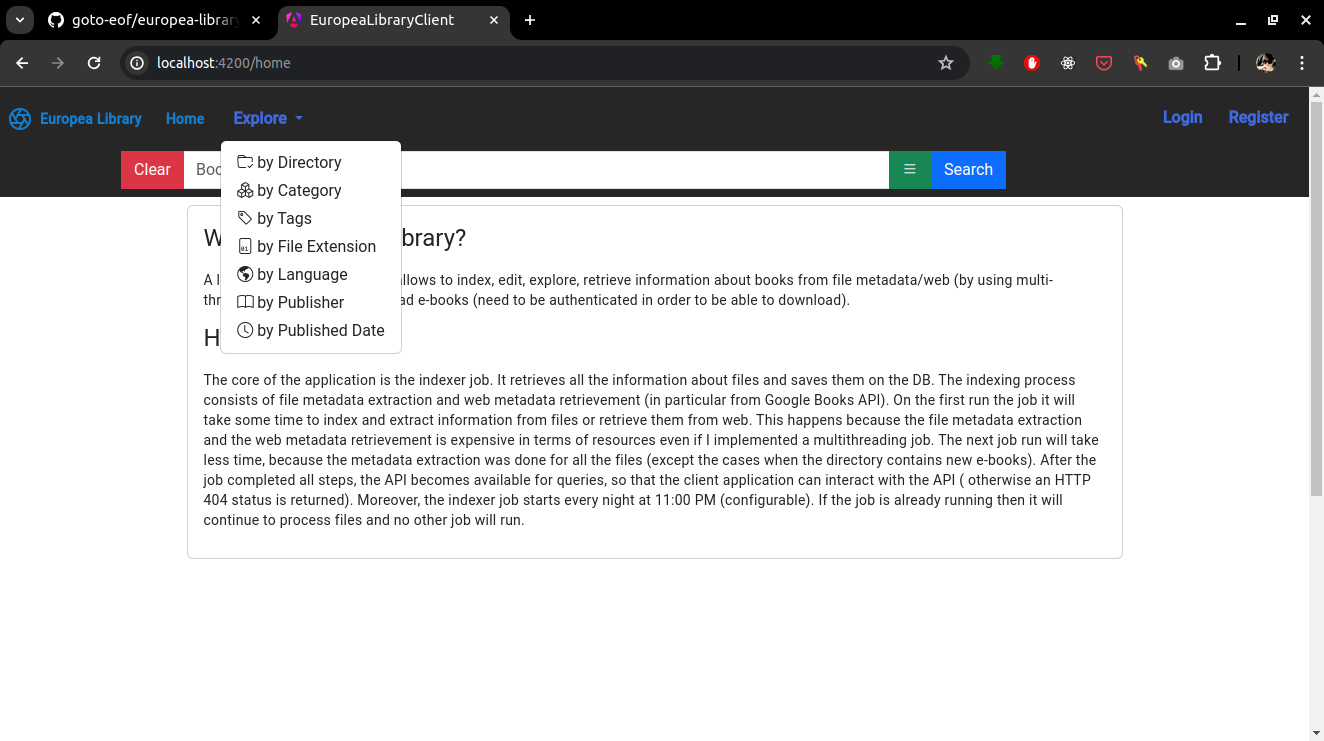
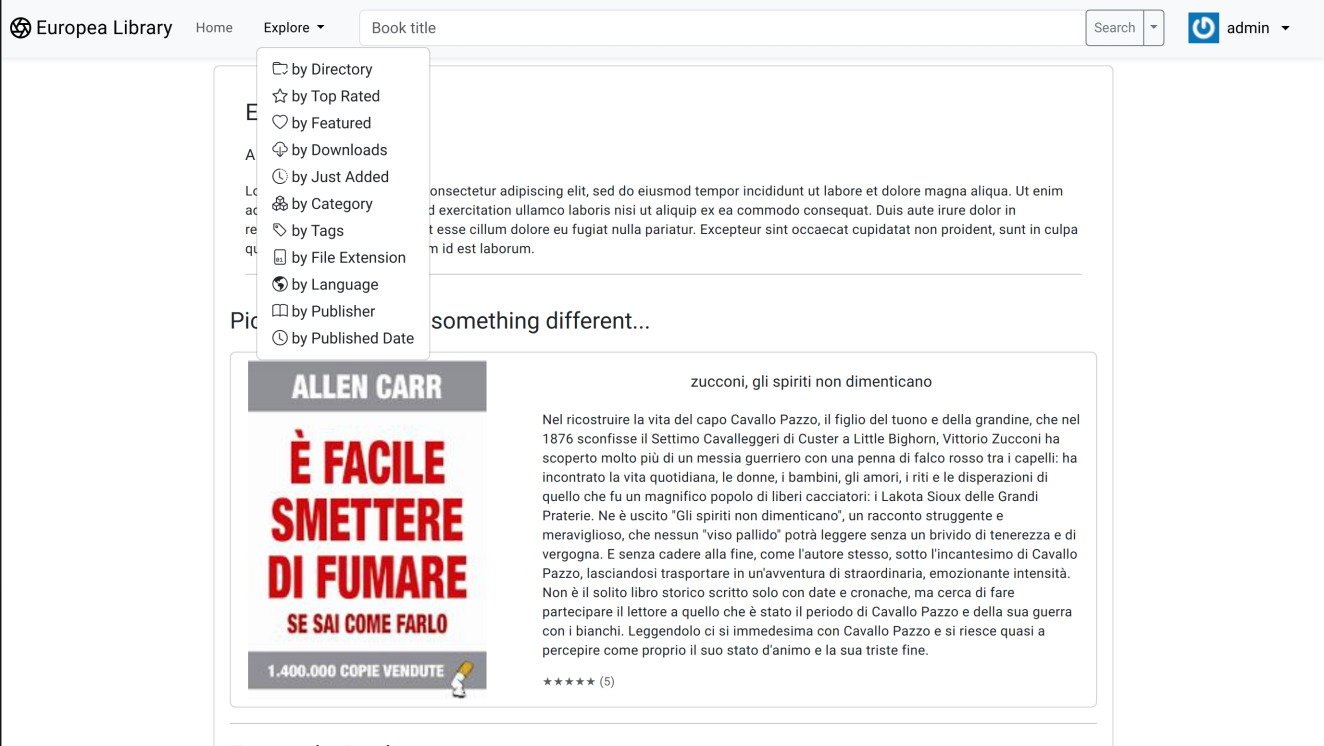
doc: update

diff --git a/README.md b/README.md
@@ -41,7 +41,13 @@ CSS • TypeScript • Angular 17 • Bootstrap UI
 
 ## Screenshots
 
+### New UI
+
 ![screenshot](/images/screenshot.png)
+
+### Comparison with the old version
+
+![screenshot old-new-version comparison](/images/old-new-version.png)
 
 ## More
 
